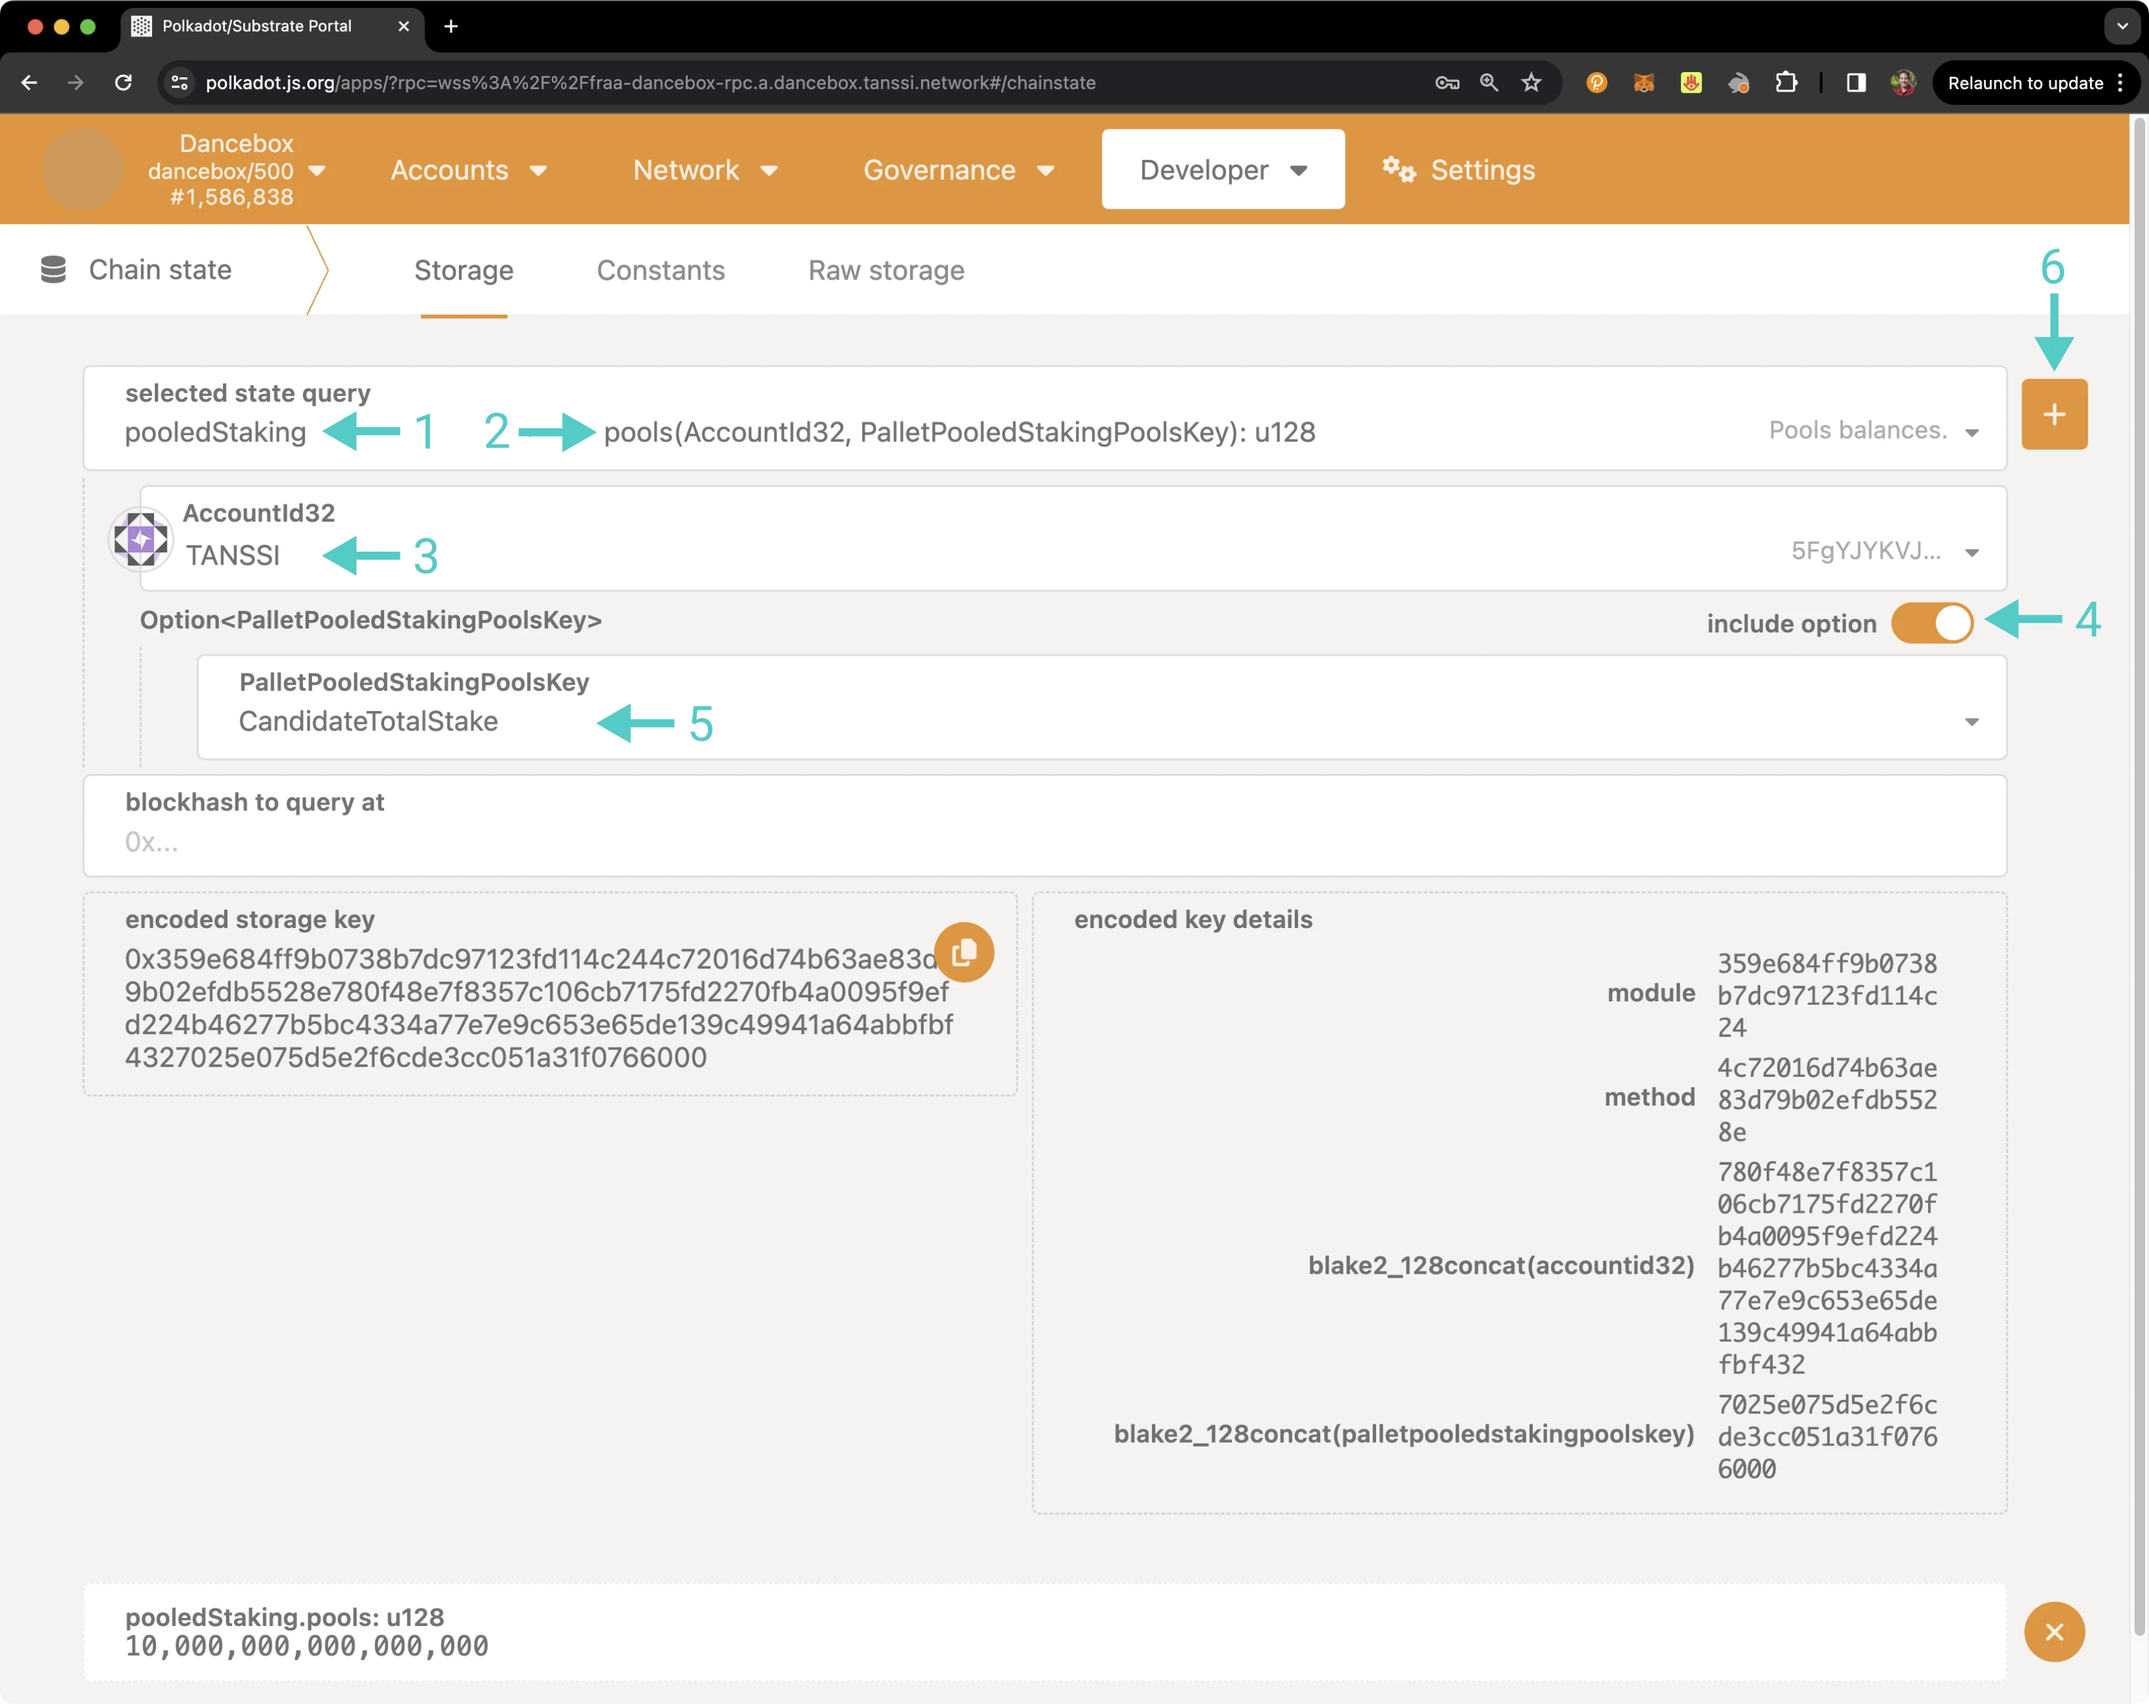
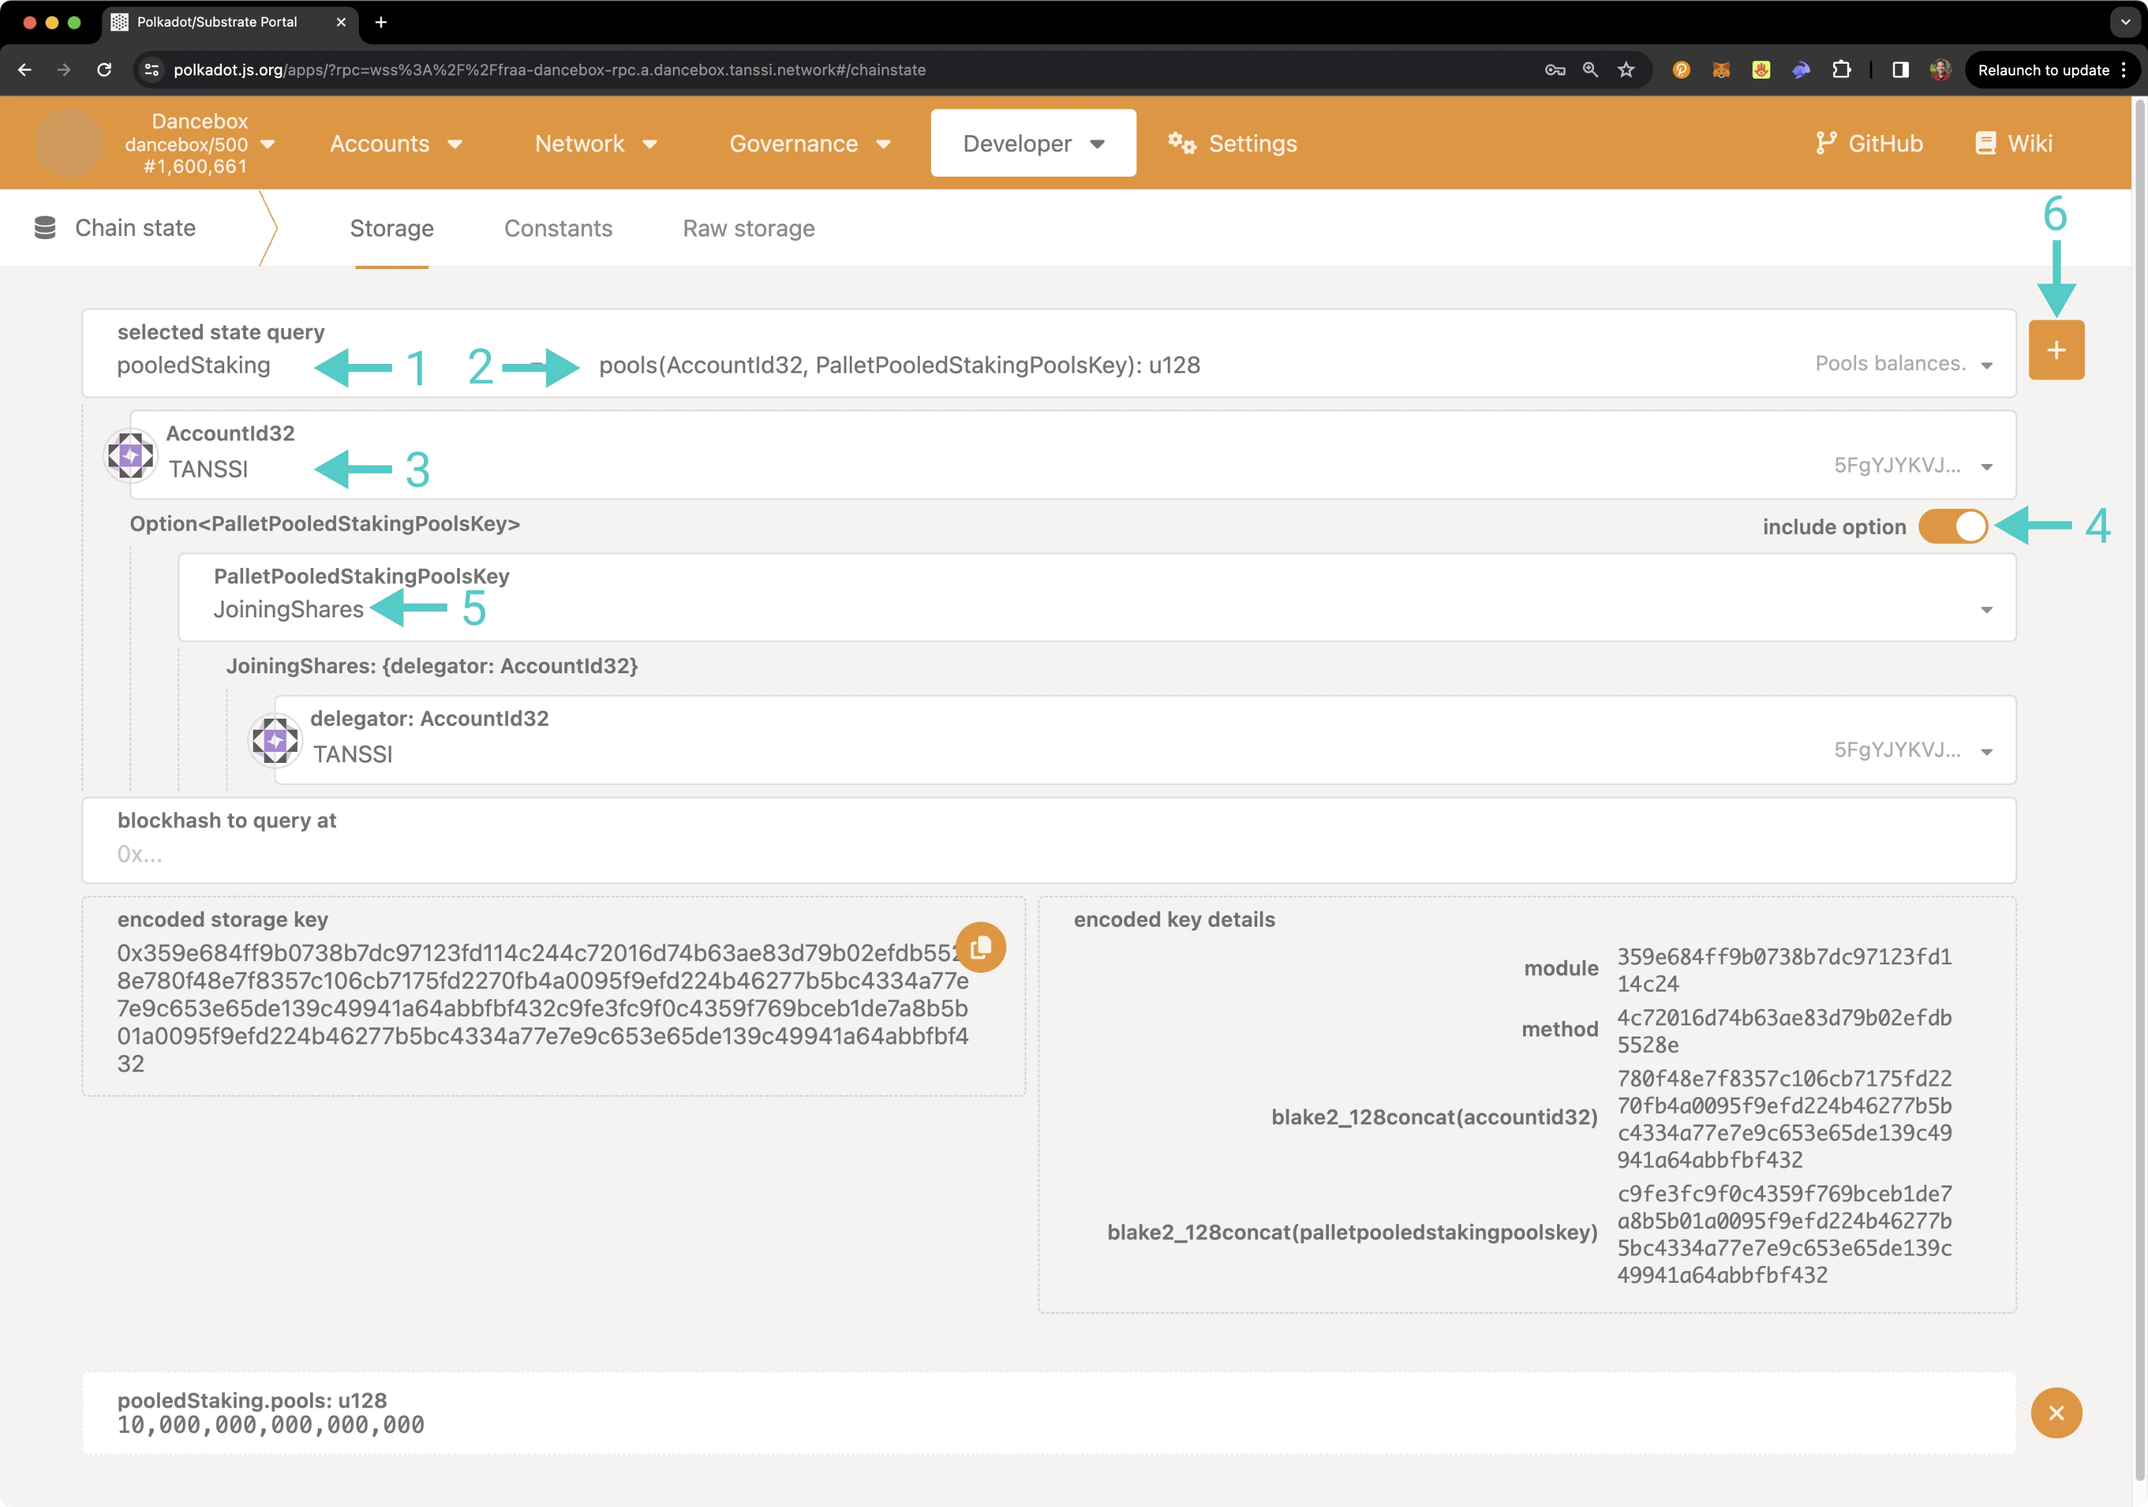
total stake revisions

diff --git a/node-operators/block-producers/offboarding/account.md b/node-operators/block-producers/offboarding/account.md
@@ -23,12 +23,14 @@ Before undelegating, it is helpful first to see how much you have staked, as you
 2. Select the **pools** query
 3. Enter your block producer account
 4. Ensure that the **include option** slider is toggled on
-5. In the **option** field, you can select **CandidateTotalStake** to see the amount you have staked in Plank. Alternatively, you can select **AutoCompoundingShares** or **ManualRewardShares** depending on the staking configuration used when setting up your block producer node 
+5. In the **option** field, you select **JoiningShares**
 6. Click the **+** button next to the extrinsic field
 
 ![Check existing stake on Polkadot.js Apps](/images/node-operators/block-producers/offboarding/offboarding/offboarding-1.webp)
 
-The corresponding candidate's total stake (in Planck) or the number of shares will be displayed. Note this amount, as you'll need it in the next section. 
+Note, **JoiningShares** returns only the initial amount you delegated when configuring your block producer. To get your total amount staked, you'll need to repeat the above steps for either **ManualRewardShares** or **ManualRewardSharesHeldStake** if you didn't select Autocompounding, and either **AutoCompoundingShares** or **AutoCompoundingSharesHeldStake** if you configured Autocompounding. Then add your autocompounding or manual shares value to **JoiningShares** to get your total delegation outstanding.
+
+As an example, the total stake of an autocompounding block producer can be calculated by adding **JoiningShares** to **AutoCompoundingShares**. Note this amount, as you'll need it in the next section. 
 
 ### Submit Undelegation Request {: #submit-undelegation-request }
 
